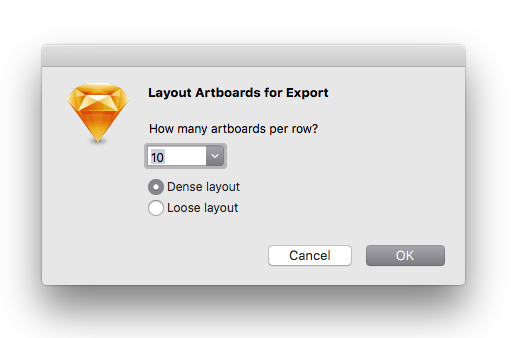
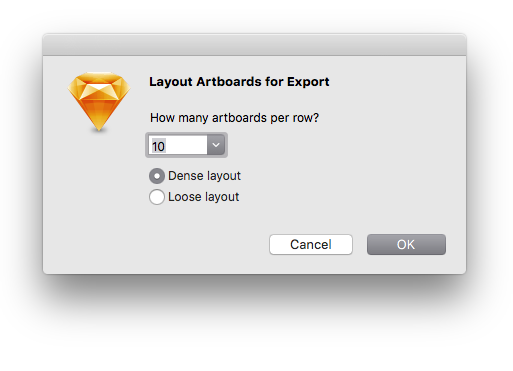
Updated screenshots and fixed file name.

Changed region(s): [[0.0624, 0.6213, 0.9357, 0.9763], [0.0624, 0.0888, 0.9357, 0.7396]]

diff --git a/README.md b/README.md
@@ -12,7 +12,7 @@ Orients all artboards on current page into a groupings, determined by artboard n
 ## Create Slice Around Artboards…
 Creates a slice around your selected artboards, all artboards on the page, or all artboards with additional padding for the intent of exporting as a wireframe. Additional options include the ability to set a slice density (.5x, 1x, 2x, 3x) and export format (JPG, PDF, PNG).
 
-![Create Slice Around Artboards](https://raw.githubusercontent.com/sonburn/sncr-sketch-plugin/master/Screenshots/Create%20Slice%20Around%20Artbords.png)
+![Create Slice Around Artboards](https://raw.githubusercontent.com/sonburn/sncr-sketch-plugin/master/Screenshots/Create%20Slice%20Around%20Artboards.png)
 
 ## Create Titles Above Artboards
 Creates a text title above each artboard, with the value of each artboard name. All titles are contained in a group at the top of the layers panel called Titles. Any time you change the name of an artboard, run this action again and all titles will be quickly re-generated to reflect changes.
